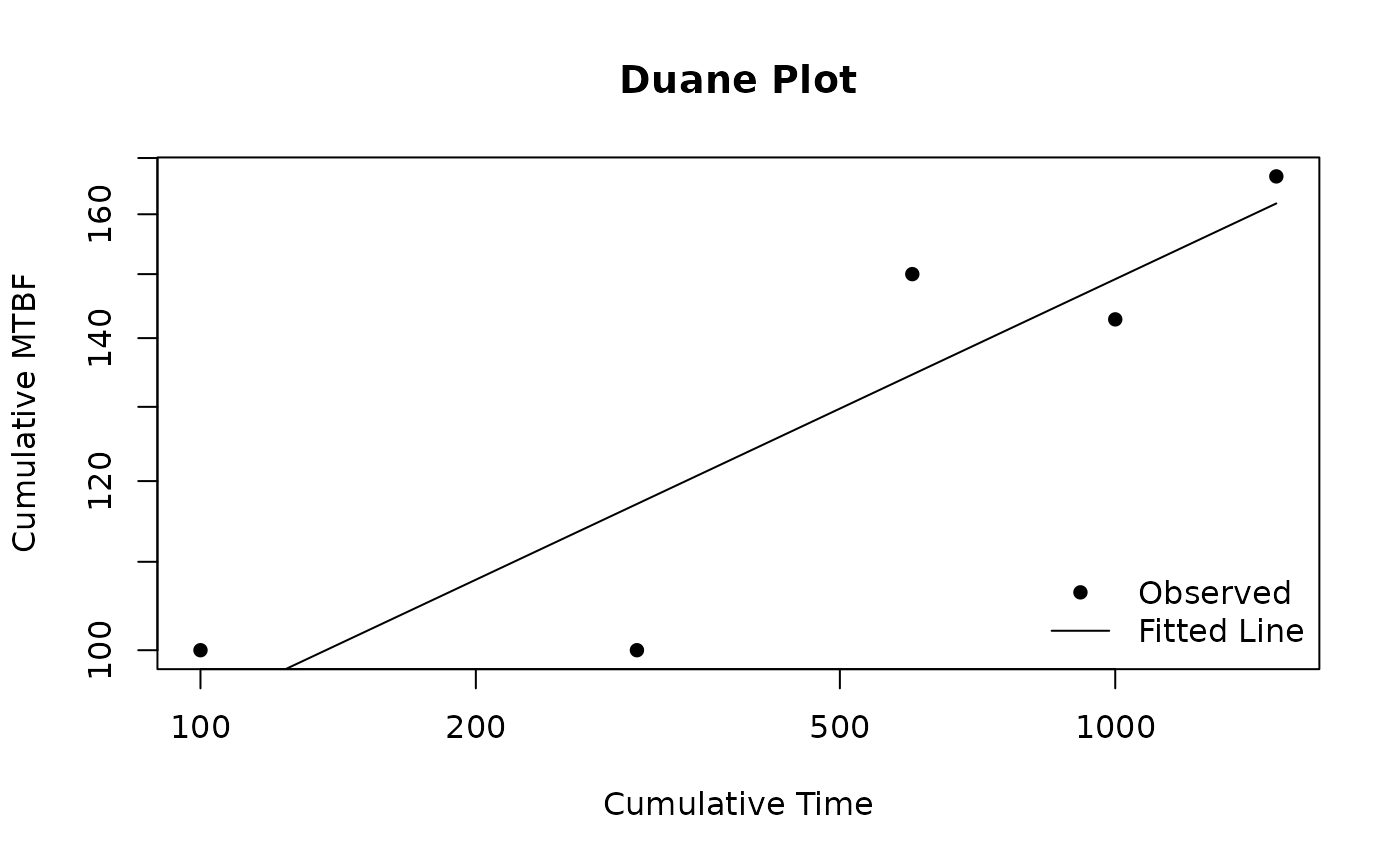
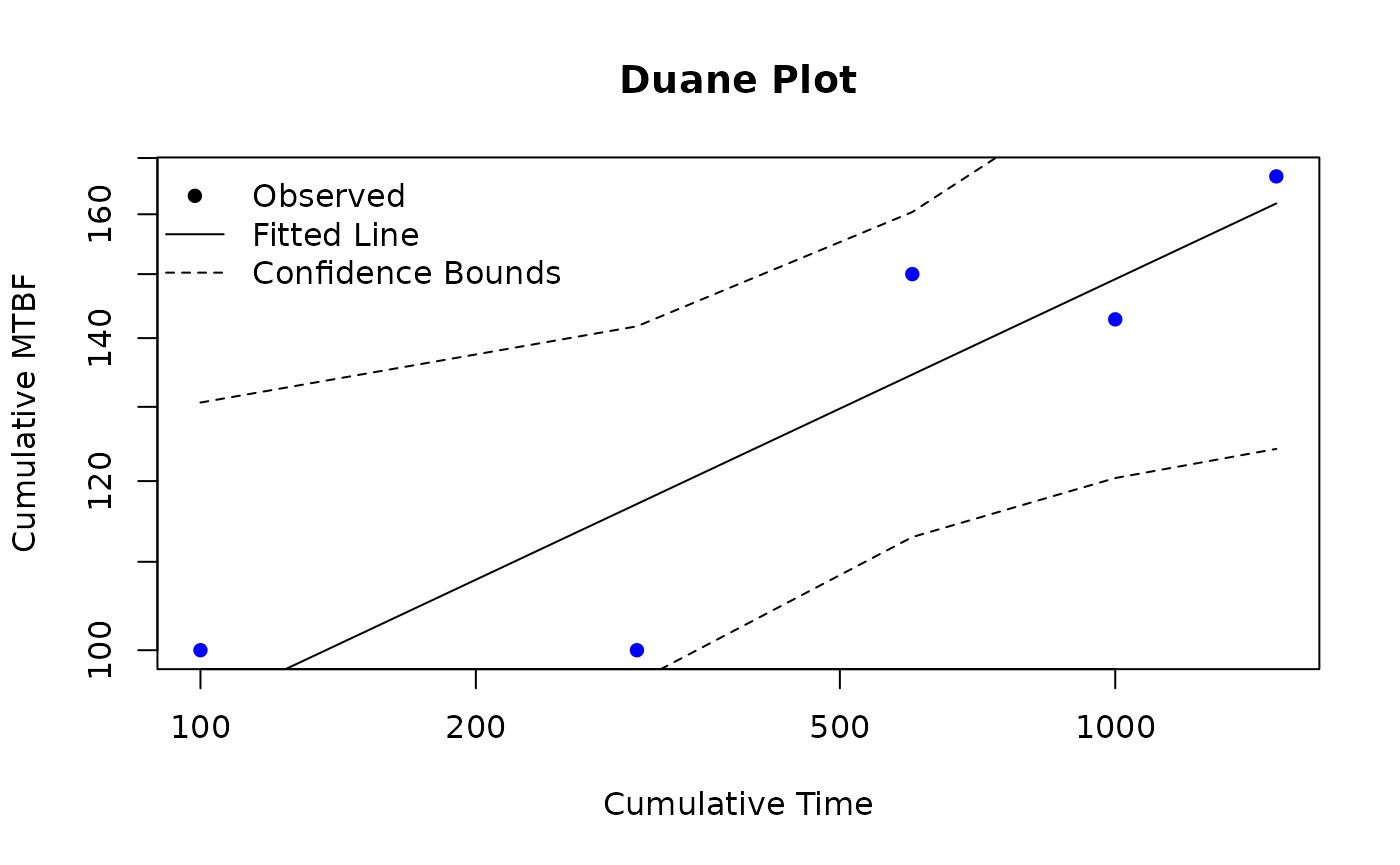
Deploying to gh-pages from @ paulgovan/ReliaGrowR@ecf4d071ec416c177497c9a059d404304abbc307 🚀

diff --git a/reference/plot.duane.html b/reference/plot.duane.html
@@ -50,11 +50,9 @@ and optional confidence bounds.</p>
 <span><span class="fu"><a href="https://rdrr.io/r/graphics/plot.default.html" class="external-link">plot</a></span><span class="op">(</span></span>
 <span>  <span class="va">x</span>,</span>
 <span>  log <span class="op">=</span> <span class="cn">TRUE</span>,</span>
-<span>  point_col <span class="op">=</span> <span class="st">"black"</span>,</span>
-<span>  line_col <span class="op">=</span> <span class="st">"black"</span>,</span>
-<span>  conf_col <span class="op">=</span> <span class="st">"black"</span>,</span>
+<span>  conf.int <span class="op">=</span> <span class="cn">TRUE</span>,</span>
 <span>  legend <span class="op">=</span> <span class="cn">TRUE</span>,</span>
-<span>  legend_pos <span class="op">=</span> <span class="st">"bottomright"</span>,</span>
+<span>  legend.pos <span class="op">=</span> <span class="st">"topleft"</span>,</span>
 <span>  <span class="va">...</span></span>
 <span><span class="op">)</span></span></code></pre></div>
     </div>
@@ -71,24 +69,16 @@ and optional confidence bounds.</p>
 <dd><p>Logical; whether to use logarithmic scales for axes (default: <code>TRUE</code>).</p></dd>
 
 
-<dt id="arg-point-col">point_col<a class="anchor" aria-label="anchor" href="#arg-point-col"></a></dt>
-<dd><p>Color for the observed data points (default: "black").</p></dd>
-
-
-<dt id="arg-line-col">line_col<a class="anchor" aria-label="anchor" href="#arg-line-col"></a></dt>
-<dd><p>Color for the fitted line (default: "black").</p></dd>
-
-
-<dt id="arg-conf-col">conf_col<a class="anchor" aria-label="anchor" href="#arg-conf-col"></a></dt>
-<dd><p>Color for the confidence bound lines (default: "red").</p></dd>
+<dt id="arg-conf-int">conf.int<a class="anchor" aria-label="anchor" href="#arg-conf-int"></a></dt>
+<dd><p>Logical; whether to plot confidence bounds (default: <code>TRUE</code>).</p></dd>
 
 
 <dt id="arg-legend">legend<a class="anchor" aria-label="anchor" href="#arg-legend"></a></dt>
 <dd><p>Logical; whether to include a legend (default: TRUE).</p></dd>
 
 
-<dt id="arg-legend-pos">legend_pos<a class="anchor" aria-label="anchor" href="#arg-legend-pos"></a></dt>
-<dd><p>Position of the legend (default: "bottomright").</p></dd>
+<dt id="arg-legend-pos">legend.pos<a class="anchor" aria-label="anchor" href="#arg-legend-pos"></a></dt>
+<dd><p>Position of the legend (default: "topleft").</p></dd>
 
 
 <dt id="arg--">...<a class="anchor" aria-label="anchor" href="#arg--"></a></dt>
@@ -110,7 +100,7 @@ and optional confidence bounds.</p>
     <h2 id="ref-examples">Examples<a class="anchor" aria-label="anchor" href="#ref-examples"></a></h2>
     <div class="sourceCode"><pre class="sourceCode r"><code><span class="r-in"><span><span class="va">times</span> <span class="op">&lt;-</span> <span class="fu"><a href="https://rdrr.io/r/base/c.html" class="external-link">c</a></span><span class="op">(</span><span class="fl">100</span>, <span class="fl">200</span>, <span class="fl">300</span>, <span class="fl">400</span>, <span class="fl">500</span><span class="op">)</span></span></span>
 <span class="r-in"><span><span class="va">failures</span> <span class="op">&lt;-</span> <span class="fu"><a href="https://rdrr.io/r/base/c.html" class="external-link">c</a></span><span class="op">(</span><span class="fl">1</span>, <span class="fl">2</span>, <span class="fl">1</span>, <span class="fl">3</span>, <span class="fl">2</span><span class="op">)</span></span></span>
-<span class="r-in"><span><span class="va">fit</span> <span class="op">&lt;-</span> <span class="fu"><a href="duane.html">duane</a></span><span class="op">(</span><span class="va">times</span>, <span class="va">failures</span>, conf.int <span class="op">=</span> <span class="cn">TRUE</span><span class="op">)</span></span></span>
+<span class="r-in"><span><span class="va">fit</span> <span class="op">&lt;-</span> <span class="fu"><a href="duane.html">duane</a></span><span class="op">(</span><span class="va">times</span>, <span class="va">failures</span><span class="op">)</span></span></span>
 <span class="r-in"><span><span class="fu"><a href="https://rdrr.io/r/graphics/plot.default.html" class="external-link">plot</a></span><span class="op">(</span><span class="va">fit</span>, main <span class="op">=</span> <span class="st">"Duane Plot"</span>, xlab <span class="op">=</span> <span class="st">"Cumulative Time"</span>, ylab <span class="op">=</span> <span class="st">"Cumulative MTBF"</span><span class="op">)</span></span></span>
 <span class="r-plt img"><img src="plot.duane-1.png" alt="" width="700" height="433"></span>
 </code></pre></div>

diff --git a/reference/duane.html b/reference/duane.html
@@ -49,7 +49,7 @@ versus cumulative time.</p>
 
     <div class="section level2">
     <h2 id="ref-usage">Usage<a class="anchor" aria-label="anchor" href="#ref-usage"></a></h2>
-    <div class="sourceCode"><pre class="sourceCode r"><code><span><span class="fu">duane</span><span class="op">(</span><span class="va">times</span>, <span class="va">failures</span>, conf.int <span class="op">=</span> <span class="cn">FALSE</span>, conf.level <span class="op">=</span> <span class="fl">0.95</span><span class="op">)</span></span></code></pre></div>
+    <div class="sourceCode"><pre class="sourceCode r"><code><span><span class="fu">duane</span><span class="op">(</span><span class="va">times</span>, <span class="va">failures</span>, conf.level <span class="op">=</span> <span class="fl">0.95</span><span class="op">)</span></span></code></pre></div>
     </div>
 
     <div class="section level2">
@@ -62,10 +62,6 @@ versus cumulative time.</p>
 
 <dt id="arg-failures">failures<a class="anchor" aria-label="anchor" href="#arg-failures"></a></dt>
 <dd><p>A numeric vector of the number of failures at each corresponding time in <code>times</code>.</p></dd>
-
-
-<dt id="arg-conf-int">conf.int<a class="anchor" aria-label="anchor" href="#arg-conf-int"></a></dt>
-<dd><p>Logical; whether to compute confidence bounds (default: <code>FALSE</code>).</p></dd>
 
 
 <dt id="arg-conf-level">conf.level<a class="anchor" aria-label="anchor" href="#arg-conf-level"></a></dt>
@@ -88,7 +84,7 @@ versus cumulative time.</p>
 <dd><p>Bayesian Information Criterion.</p></dd>
 
 <dt>conf.level</dt>
-<dd><p>The confidence level, if applicable.</p></dd>
+<dd><p>The confidence level.</p></dd>
 
 <dt>Cumulative_Time</dt>
 <dd><p>The cumulative operating times.</p></dd>
@@ -100,7 +96,7 @@ versus cumulative time.</p>
 <dd><p>The fitted values on the MTBF scale.</p></dd>
 
 <dt>Confidence_Bounds</dt>
-<dd><p>Matrix of fitted values and confidence bounds on the MTBF scale (if applicable).</p></dd>
+<dd><p>Matrix of fitted values and confidence bounds on the MTBF scale.</p></dd>
 
 </dl></div>
     <div class="section level2">
@@ -114,7 +110,7 @@ versus cumulative time.</p>
     <h2 id="ref-examples">Examples<a class="anchor" aria-label="anchor" href="#ref-examples"></a></h2>
     <div class="sourceCode"><pre class="sourceCode r"><code><span class="r-in"><span><span class="va">times</span> <span class="op">&lt;-</span> <span class="fu"><a href="https://rdrr.io/r/base/c.html" class="external-link">c</a></span><span class="op">(</span><span class="fl">100</span>, <span class="fl">200</span>, <span class="fl">300</span>, <span class="fl">400</span>, <span class="fl">500</span><span class="op">)</span></span></span>
 <span class="r-in"><span><span class="va">failures</span> <span class="op">&lt;-</span> <span class="fu"><a href="https://rdrr.io/r/base/c.html" class="external-link">c</a></span><span class="op">(</span><span class="fl">1</span>, <span class="fl">2</span>, <span class="fl">1</span>, <span class="fl">3</span>, <span class="fl">2</span><span class="op">)</span></span></span>
-<span class="r-in"><span><span class="va">fit</span> <span class="op">&lt;-</span> <span class="fu">duane</span><span class="op">(</span><span class="va">times</span>, <span class="va">failures</span>, conf.int <span class="op">=</span> <span class="cn">TRUE</span>, conf.level <span class="op">=</span> <span class="fl">0.90</span><span class="op">)</span></span></span>
+<span class="r-in"><span><span class="va">fit</span> <span class="op">&lt;-</span> <span class="fu">duane</span><span class="op">(</span><span class="va">times</span>, <span class="va">failures</span>, conf.level <span class="op">=</span> <span class="fl">0.90</span><span class="op">)</span></span></span>
 <span class="r-in"><span><span class="fu"><a href="https://rdrr.io/r/base/print.html" class="external-link">print</a></span><span class="op">(</span><span class="va">fit</span><span class="op">)</span></span></span>
 <span class="r-out co"><span class="r-pr">#&gt;</span> Duane Analysis Result</span>
 <span class="r-out co"><span class="r-pr">#&gt;</span> ----------------------</span>

diff --git a/reference/print.duane.html b/reference/print.duane.html
@@ -74,7 +74,7 @@
     <h2 id="ref-examples">Examples<a class="anchor" aria-label="anchor" href="#ref-examples"></a></h2>
     <div class="sourceCode"><pre class="sourceCode r"><code><span class="r-in"><span><span class="va">times</span> <span class="op">&lt;-</span> <span class="fu"><a href="https://rdrr.io/r/base/c.html" class="external-link">c</a></span><span class="op">(</span><span class="fl">100</span>, <span class="fl">200</span>, <span class="fl">300</span>, <span class="fl">400</span>, <span class="fl">500</span><span class="op">)</span></span></span>
 <span class="r-in"><span><span class="va">failures</span> <span class="op">&lt;-</span> <span class="fu"><a href="https://rdrr.io/r/base/c.html" class="external-link">c</a></span><span class="op">(</span><span class="fl">1</span>, <span class="fl">2</span>, <span class="fl">1</span>, <span class="fl">3</span>, <span class="fl">2</span><span class="op">)</span></span></span>
-<span class="r-in"><span><span class="va">fit</span> <span class="op">&lt;-</span> <span class="fu"><a href="duane.html">duane</a></span><span class="op">(</span><span class="va">times</span>, <span class="va">failures</span>, conf.int <span class="op">=</span> <span class="cn">TRUE</span><span class="op">)</span></span></span>
+<span class="r-in"><span><span class="va">fit</span> <span class="op">&lt;-</span> <span class="fu"><a href="duane.html">duane</a></span><span class="op">(</span><span class="va">times</span>, <span class="va">failures</span><span class="op">)</span></span></span>
 <span class="r-in"><span><span class="fu"><a href="https://rdrr.io/r/base/print.html" class="external-link">print</a></span><span class="op">(</span><span class="va">fit</span><span class="op">)</span></span></span>
 <span class="r-out co"><span class="r-pr">#&gt;</span> Duane Analysis Result</span>
 <span class="r-out co"><span class="r-pr">#&gt;</span> ----------------------</span>

diff --git a/articles/RGA.html b/articles/RGA.html
@@ -242,7 +242,7 @@ cumulative time.</p>
 <p>Then fit the model and plot the results:</p>
 <div class="sourceCode" id="cb9"><pre class="downlit sourceCode r">
 <code class="sourceCode R"><span><span class="va">fit</span> <span class="op">&lt;-</span> <span class="fu"><a href="../reference/duane.html">duane</a></span><span class="op">(</span><span class="va">times</span>, <span class="va">failures</span><span class="op">)</span></span>
-<span><span class="fu"><a href="https://rdrr.io/r/graphics/plot.default.html" class="external-link">plot</a></span><span class="op">(</span><span class="va">fit</span>, main <span class="op">=</span> <span class="st">"Duane Plot"</span>, xlab <span class="op">=</span> <span class="st">"Cumulative Time"</span>, ylab <span class="op">=</span> <span class="st">"Cumulative MTBF"</span><span class="op">)</span></span></code></pre></div>
+<span><span class="fu"><a href="https://rdrr.io/r/graphics/plot.default.html" class="external-link">plot</a></span><span class="op">(</span><span class="va">fit</span>, main <span class="op">=</span> <span class="st">"Duane Plot"</span>, xlab <span class="op">=</span> <span class="st">"Cumulative Time"</span>, ylab <span class="op">=</span> <span class="st">"Cumulative MTBF"</span>, col <span class="op">=</span> <span class="st">"blue"</span><span class="op">)</span></span></code></pre></div>
 <p><img src="RGA_files/figure-html/unnamed-chunk-10-1.png" width="700"></p>
 </div>
 </div>
